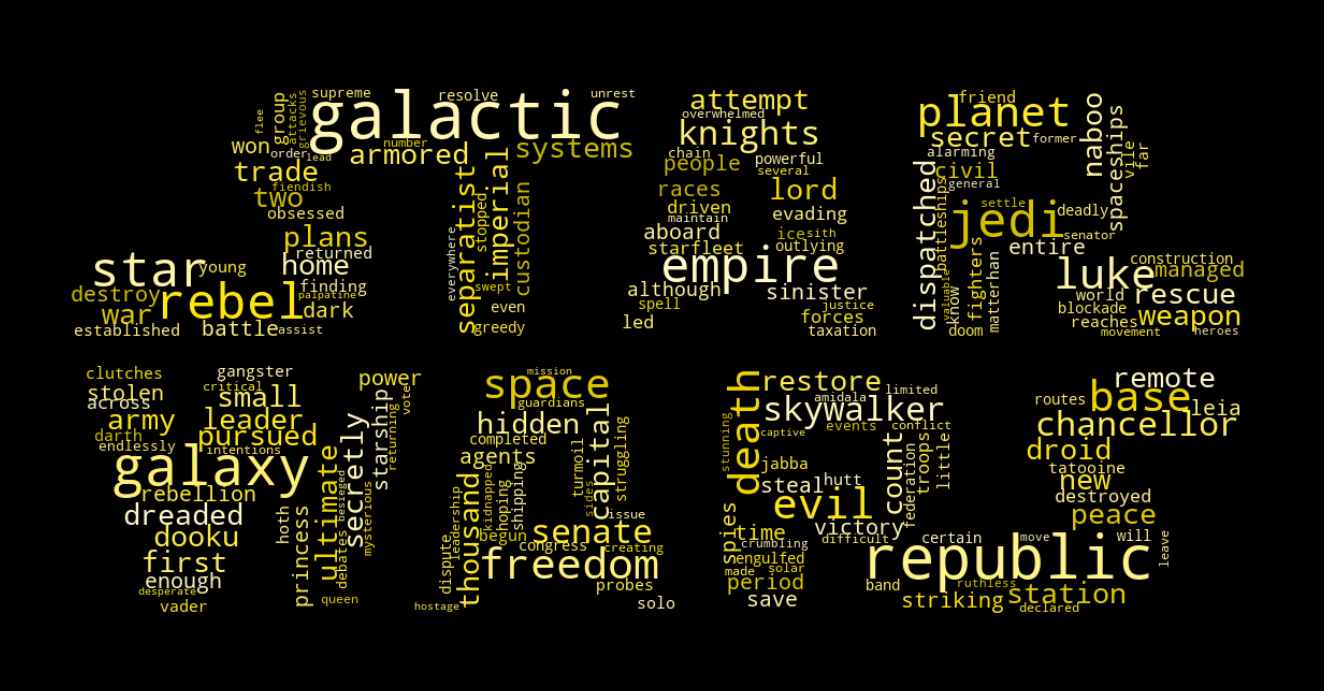
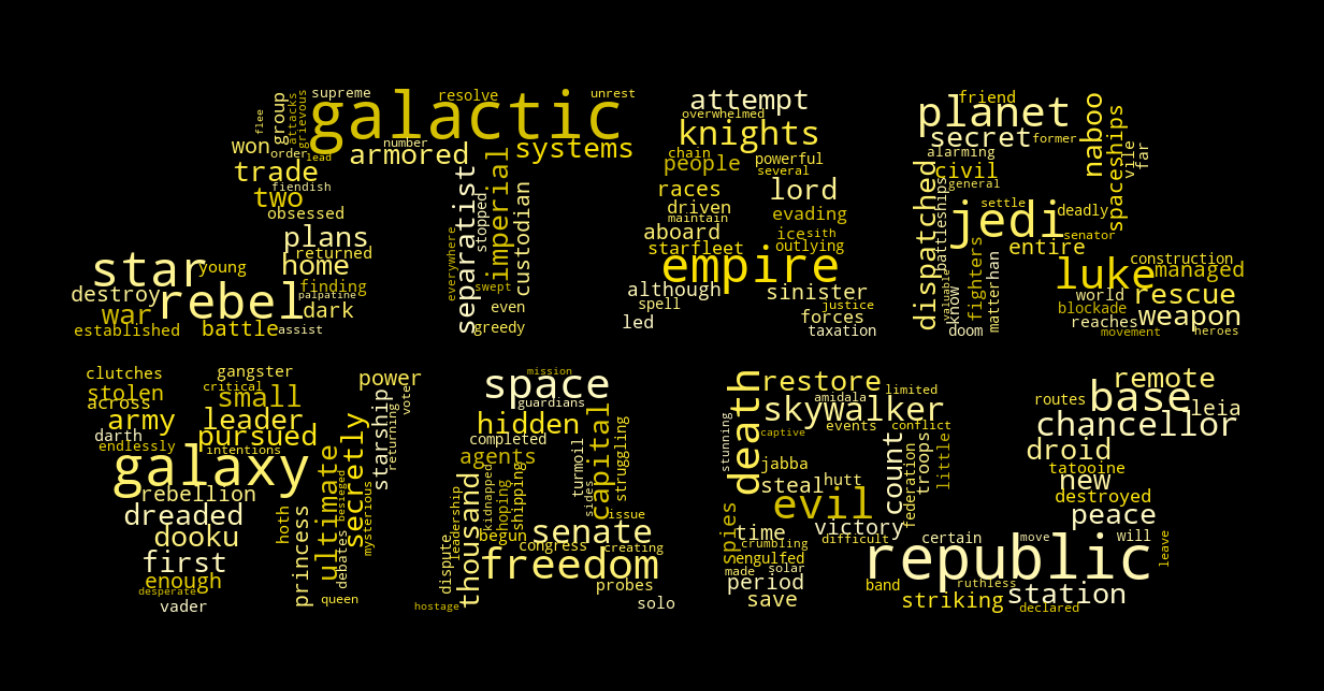
re-rendering

diff --git a/docs/index.html b/docs/index.html
@@ -130,9 +130,9 @@ ul.task-list li input[type="checkbox"] {
 <div id="species-representation-count-2" class="cell-output cell-output-display">
 
 <div>            <script src="https://cdnjs.cloudflare.com/ajax/libs/mathjax/2.7.5/MathJax.js?config=TeX-AMS-MML_SVG"></script><script type="text/javascript">if (window.MathJax && window.MathJax.Hub && window.MathJax.Hub.Config) {window.MathJax.Hub.Config({SVG: {font: "STIX-Web"}});}</script>                <script type="text/javascript">window.PlotlyConfig = {MathJaxConfig: 'local'};</script>
-        <script charset="utf-8" src="https://cdn.plot.ly/plotly-3.0.1.min.js"></script>                <div id="8d559aae-e13a-4921-8a7c-63c9bd1dba8d" class="plotly-graph-div" style="height:525px; width:100%;"></div>            <script type="text/javascript">                window.PLOTLYENV=window.PLOTLYENV || {};                                if (document.getElementById("8d559aae-e13a-4921-8a7c-63c9bd1dba8d")) {                    Plotly.newPlot(                        "8d559aae-e13a-4921-8a7c-63c9bd1dba8d",                        [{"customdata":[["Jar Jar Binks\u003cbr\u003eKit Fisto\u003cbr\u003eMas Amedda"],["Jar Jar Binks\u003cbr\u003eKit Fisto\u003cbr\u003eMas Amedda"],["Kit Fisto"],[""],[""],[""]],"fillpattern":{"shape":""},"hovertemplate":"\u003cb\u003eClassification: %{fullData.name}\u003c\u002fb\u003e\u003cbr\u003e# Characters: %{y}\u003cbr\u003e%{customdata[0]}\u003cextra\u003e\u003c\u002fextra\u003e","legendgroup":"amphibian","line":{"color":"rgb(237, 229, 207)"},"marker":{"symbol":"circle"},"mode":"lines","name":"amphibian","orientation":"v","showlegend":true,"stackgroup":"1","x":["I","II","III","IV","V","VI"],"xaxis":"x","y":{"dtype":"f8","bdata":"AAAAAAAACEAAAAAAAAAIQAAAAAAAAPA\u002fAAAAAAAAAAAAAAAAAAAAAAAAAAAAAAAA"},"yaxis":"y","type":"scatter"},{"customdata":[["C-3PO\u003cbr\u003eR2-D2"],["C-3PO\u003cbr\u003eR2-D2\u003cbr\u003eR4-P17"],["C-3PO\u003cbr\u003eR2-D2\u003cbr\u003eR4-P17"],["C-3PO\u003cbr\u003eR2-D2"],["C-3PO\u003cbr\u003eR2-D2"],["C-3PO\u003cbr\u003eR2-D2"]],"fillpattern":{"shape":""},"hovertemplate":"\u003cb\u003eClassification: %{fullData.name}\u003c\u002fb\u003e\u003cbr\u003e# Characters: %{y}\u003cbr\u003e%{customdata[0]}\u003cextra\u003e\u003c\u002fextra\u003e","legendgroup":"artificial","line":{"color":"rgb(224, 194, 162)"},"marker":{"symbol":"circle"},"mode":"lines","name":"artificial","orientation":"v","showlegend":true,"stackgroup":"1","x":["I","II","III","IV","V","VI"],"xaxis":"x","y":{"dtype":"f8","bdata":"AAAAAAAAAEAAAAAAAAAIQAAAAAAAAAhAAAAAAAAAAEAAAAAAAAAAQAAAAAAAAABA"},"yaxis":"y","type":"scatter"},{"customdata":[["Jabba Desilijic Tiure"],[""],[""],["Jabba Desilijic Tiure"],[""],["Jabba Desilijic Tiure"]],"fillpattern":{"shape":""},"hovertemplate":"\u003cb\u003eClassification: %{fullData.name}\u003c\u002fb\u003e\u003cbr\u003e# Characters: %{y}\u003cbr\u003e%{customdata[0]}\u003cextra\u003e\u003c\u002fextra\u003e","legendgroup":"gastropod","line":{"color":"rgb(211, 156, 131)"},"marker":{"symbol":"circle"},"mode":"lines","name":"gastropod","orientation":"v","showlegend":true,"stackgroup":"1","x":["I","II","III","IV","V","VI"],"xaxis":"x","y":{"dtype":"f8","bdata":"AAAAAAAA8D8AAAAAAAAAAAAAAAAAAAAAAAAAAAAA8D8AAAAAAAAAAAAAAAAAAPA\u002f"},"yaxis":"y","type":"scatter"},{"customdata":[["Adi Gallia\u003cbr\u003eAnakin Skywalker\u003cbr\u003eAyla Secura\u003cbr\u003eEeth Koth\u003cbr\u003eKi-Adi-Mundi\u003cbr\u003eMace Windu\u003cbr\u003eObi-Wan Kenobi\u003cbr\u003ePadm\u00e9 Amidala\u003cbr\u003ePalpatine\u003cbr\u003eShmi Skywalker\u003cbr\u003eWatto\u003cbr\u003eYoda"],["Anakin Skywalker\u003cbr\u003eAyla Secura\u003cbr\u003eBail Prestor Organa\u003cbr\u003eBeru Whitesun lars\u003cbr\u003eBoba Fett\u003cbr\u003eDooku\u003cbr\u003eKi-Adi-Mundi\u003cbr\u003eLuminara Unduli\u003cbr\u003eMace Windu\u003cbr\u003eObi-Wan Kenobi\u003cbr\u003eOwen Lars\u003cbr\u003ePadm\u00e9 Amidala\u003cbr\u003ePalpatine\u003cbr\u003eShaak Ti\u003cbr\u003eShmi Skywalker\u003cbr\u003eWatto\u003cbr\u003eYoda"],["Adi Gallia\u003cbr\u003eAnakin Skywalker\u003cbr\u003eAyla Secura\u003cbr\u003eBail Prestor Organa\u003cbr\u003eBeru Whitesun lars\u003cbr\u003eChewbacca\u003cbr\u003eDarth Vader\u003cbr\u003eDooku\u003cbr\u003eEeth Koth\u003cbr\u003eKi-Adi-Mundi\u003cbr\u003eLeia Organa\u003cbr\u003eLuke Skywalker\u003cbr\u003eLuminara Unduli\u003cbr\u003eMace Windu\u003cbr\u003eObi-Wan Kenobi\u003cbr\u003eOwen Lars\u003cbr\u003ePadm\u00e9 Amidala\u003cbr\u003ePalpatine\u003cbr\u003eRaymus Antilles\u003cbr\u003eShaak Ti\u003cbr\u003eWilhuff Tarkin\u003cbr\u003eYoda"],["Beru Whitesun lars\u003cbr\u003eChewbacca\u003cbr\u003eDarth Vader\u003cbr\u003eHan Solo\u003cbr\u003eLeia Organa\u003cbr\u003eLuke Skywalker\u003cbr\u003eObi-Wan Kenobi\u003cbr\u003eOwen Lars\u003cbr\u003eRaymus Antilles\u003cbr\u003eWedge Antilles\u003cbr\u003eWilhuff Tarkin"],["Boba Fett\u003cbr\u003eChewbacca\u003cbr\u003eDarth Vader\u003cbr\u003eHan Solo\u003cbr\u003eLando Calrissian\u003cbr\u003eLeia Organa\u003cbr\u003eLuke Skywalker\u003cbr\u003eObi-Wan Kenobi\u003cbr\u003ePalpatine\u003cbr\u003eWedge Antilles\u003cbr\u003eYoda"],["Boba Fett\u003cbr\u003eChewbacca\u003cbr\u003eDarth Vader\u003cbr\u003eHan Solo\u003cbr\u003eLando Calrissian\u003cbr\u003eLeia Organa\u003cbr\u003eLuke Skywalker\u003cbr\u003eObi-Wan Kenobi\u003cbr\u003ePalpatine\u003cbr\u003eWedge Antilles\u003cbr\u003eYoda"]],"fillpattern":{"shape":""},"hovertemplate":"\u003cb\u003eClassification: %{fullData.name}\u003c\u002fb\u003e\u003cbr\u003e# Characters: %{y}\u003cbr\u003e%{customdata[0]}\u003cextra\u003e\u003c\u002fextra\u003e","legendgroup":"mammal","line":{"color":"rgb(193, 118, 111)"},"marker":{"symbol":"circle"},"mode":"lines","name":"mammal","orientation":"v","showlegend":true,"stackgroup":"1","x":["I","II","III","IV","V","VI"],"xaxis":"x","y":{"dtype":"f8","bdata":"AAAAAAAAKEAAAAAAAAAxQAAAAAAAADZAAAAAAAAAJkAAAAAAAAAmQAAAAAAAACZA"},"yaxis":"y","type":"scatter"},{"customdata":[["Nute Gunray\u003cbr\u003ePlo Koon\u003cbr\u003eSaesee Tiin"],["Nute Gunray\u003cbr\u003ePlo Koon"],["Nute Gunray\u003cbr\u003ePlo Koon\u003cbr\u003eSaesee Tiin"],[""],[""],[""]],"fillpattern":{"shape":""},"hovertemplate":"\u003cb\u003eClassification: %{fullData.name}\u003c\u002fb\u003e\u003cbr\u003e# Characters: %{y}\u003cbr\u003e%{customdata[0]}\u003cextra\u003e\u003c\u002fextra\u003e","legendgroup":"unknown","line":{"color":"rgb(166, 84, 97)"},"marker":{"symbol":"circle"},"mode":"lines","name":"unknown","orientation":"v","showlegend":true,"stackgroup":"1","x":["I","II","III","IV","V","VI"],"xaxis":"x","y":{"dtype":"f8","bdata":"AAAAAAAACEAAAAAAAAAAQAAAAAAAAAhAAAAAAAAAAAAAAAAAAAAAAAAAAAAAAAAA"},"yaxis":"y","type":"scatter"},{"customdata":[[""],["Poggle the Lesser"],["Poggle the Lesser"],[""],[""],[""]],"fillpattern":{"shape":""},"hovertemplate":"\u003cb\u003eClassification: %{fullData.name}\u003c\u002fb\u003e\u003cbr\u003e# Characters: %{y}\u003cbr\u003e%{customdata[0]}\u003cextra\u003e\u003c\u002fextra\u003e","legendgroup":"insectoid","line":{"color":"rgb(129, 55, 83)"},"marker":{"symbol":"circle"},"mode":"lines","name":"insectoid","orientation":"v","showlegend":true,"stackgroup":"1","x":["I","II","III","IV","V","VI"],"xaxis":"x","y":{"dtype":"f8","bdata":"AAAAAAAAAAAAAAAAAADwPwAAAAAAAPA\u002fAAAAAAAAAAAAAAAAAAAAAAAAAAAAAAAA"},"yaxis":"y","type":"scatter"}],                        {"template":{"data":{"histogram2dcontour":[{"type":"histogram2dcontour","colorbar":{"outlinewidth":0,"ticks":""},"colorscale":[[0.0,"#0d0887"],[0.1111111111111111,"#46039f"],[0.2222222222222222,"#7201a8"],[0.3333333333333333,"#9c179e"],[0.4444444444444444,"#bd3786"],[0.5555555555555556,"#d8576b"],[0.6666666666666666,"#ed7953"],[0.7777777777777778,"#fb9f3a"],[0.8888888888888888,"#fdca26"],[1.0,"#f0f921"]]}],"choropleth":[{"type":"choropleth","colorbar":{"outlinewidth":0,"ticks":""}}],"histogram2d":[{"type":"histogram2d","colorbar":{"outlinewidth":0,"ticks":""},"colorscale":[[0.0,"#0d0887"],[0.1111111111111111,"#46039f"],[0.2222222222222222,"#7201a8"],[0.3333333333333333,"#9c179e"],[0.4444444444444444,"#bd3786"],[0.5555555555555556,"#d8576b"],[0.6666666666666666,"#ed7953"],[0.7777777777777778,"#fb9f3a"],[0.8888888888888888,"#fdca26"],[1.0,"#f0f921"]]}],"heatmap":[{"type":"heatmap","colorbar":{"outlinewidth":0,"ticks":""},"colorscale":[[0.0,"#0d0887"],[0.1111111111111111,"#46039f"],[0.2222222222222222,"#7201a8"],[0.3333333333333333,"#9c179e"],[0.4444444444444444,"#bd3786"],[0.5555555555555556,"#d8576b"],[0.6666666666666666,"#ed7953"],[0.7777777777777778,"#fb9f3a"],[0.8888888888888888,"#fdca26"],[1.0,"#f0f921"]]}],"contourcarpet":[{"type":"contourcarpet","colorbar":{"outlinewidth":0,"ticks":""}}],"contour":[{"type":"contour","colorbar":{"outlinewidth":0,"ticks":""},"colorscale":[[0.0,"#0d0887"],[0.1111111111111111,"#46039f"],[0.2222222222222222,"#7201a8"],[0.3333333333333333,"#9c179e"],[0.4444444444444444,"#bd3786"],[0.5555555555555556,"#d8576b"],[0.6666666666666666,"#ed7953"],[0.7777777777777778,"#fb9f3a"],[0.8888888888888888,"#fdca26"],[1.0,"#f0f921"]]}],"surface":[{"type":"surface","colorbar":{"outlinewidth":0,"ticks":""},"colorscale":[[0.0,"#0d0887"],[0.1111111111111111,"#46039f"],[0.2222222222222222,"#7201a8"],[0.3333333333333333,"#9c179e"],[0.4444444444444444,"#bd3786"],[0.5555555555555556,"#d8576b"],[0.6666666666666666,"#ed7953"],[0.7777777777777778,"#fb9f3a"],[0.8888888888888888,"#fdca26"],[1.0,"#f0f921"]]}],"mesh3d":[{"type":"mesh3d","colorbar":{"outlinewidth":0,"ticks":""}}],"scatter":[{"fillpattern":{"fillmode":"overlay","size":10,"solidity":0.2},"type":"scatter"}],"parcoords":[{"type":"parcoords","line":{"colorbar":{"outlinewidth":0,"ticks":""}}}],"scatterpolargl":[{"type":"scatterpolargl","marker":{"colorbar":{"outlinewidth":0,"ticks":""}}}],"bar":[{"error_x":{"color":"#2a3f5f"},"error_y":{"color":"#2a3f5f"},"marker":{"line":{"color":"#E5ECF6","width":0.5},"pattern":{"fillmode":"overlay","size":10,"solidity":0.2}},"type":"bar"}],"scattergeo":[{"type":"scattergeo","marker":{"colorbar":{"outlinewidth":0,"ticks":""}}}],"scatterpolar":[{"type":"scatterpolar","marker":{"colorbar":{"outlinewidth":0,"ticks":""}}}],"histogram":[{"marker":{"pattern":{"fillmode":"overlay","size":10,"solidity":0.2}},"type":"histogram"}],"scattergl":[{"type":"scattergl","marker":{"colorbar":{"outlinewidth":0,"ticks":""}}}],"scatter3d":[{"type":"scatter3d","line":{"colorbar":{"outlinewidth":0,"ticks":""}},"marker":{"colorbar":{"outlinewidth":0,"ticks":""}}}],"scattermap":[{"type":"scattermap","marker":{"colorbar":{"outlinewidth":0,"ticks":""}}}],"scattermapbox":[{"type":"scattermapbox","marker":{"colorbar":{"outlinewidth":0,"ticks":""}}}],"scatterternary":[{"type":"scatterternary","marker":{"colorbar":{"outlinewidth":0,"ticks":""}}}],"scattercarpet":[{"type":"scattercarpet","marker":{"colorbar":{"outlinewidth":0,"ticks":""}}}],"carpet":[{"aaxis":{"endlinecolor":"#2a3f5f","gridcolor":"white","linecolor":"white","minorgridcolor":"white","startlinecolor":"#2a3f5f"},"baxis":{"endlinecolor":"#2a3f5f","gridcolor":"white","linecolor":"white","minorgridcolor":"white","startlinecolor":"#2a3f5f"},"type":"carpet"}],"table":[{"cells":{"fill":{"color":"#EBF0F8"},"line":{"color":"white"}},"header":{"fill":{"color":"#C8D4E3"},"line":{"color":"white"}},"type":"table"}],"barpolar":[{"marker":{"line":{"color":"#E5ECF6","width":0.5},"pattern":{"fillmode":"overlay","size":10,"solidity":0.2}},"type":"barpolar"}],"pie":[{"automargin":true,"type":"pie"}]},"layout":{"autotypenumbers":"strict","colorway":["#636efa","#EF553B","#00cc96","#ab63fa","#FFA15A","#19d3f3","#FF6692","#B6E880","#FF97FF","#FECB52"],"font":{"color":"#2a3f5f"},"hovermode":"closest","hoverlabel":{"align":"left"},"paper_bgcolor":"white","plot_bgcolor":"#E5ECF6","polar":{"bgcolor":"#E5ECF6","angularaxis":{"gridcolor":"white","linecolor":"white","ticks":""},"radialaxis":{"gridcolor":"white","linecolor":"white","ticks":""}},"ternary":{"bgcolor":"#E5ECF6","aaxis":{"gridcolor":"white","linecolor":"white","ticks":""},"baxis":{"gridcolor":"white","linecolor":"white","ticks":""},"caxis":{"gridcolor":"white","linecolor":"white","ticks":""}},"coloraxis":{"colorbar":{"outlinewidth":0,"ticks":""}},"colorscale":{"sequential":[[0.0,"#0d0887"],[0.1111111111111111,"#46039f"],[0.2222222222222222,"#7201a8"],[0.3333333333333333,"#9c179e"],[0.4444444444444444,"#bd3786"],[0.5555555555555556,"#d8576b"],[0.6666666666666666,"#ed7953"],[0.7777777777777778,"#fb9f3a"],[0.8888888888888888,"#fdca26"],[1.0,"#f0f921"]],"sequentialminus":[[0.0,"#0d0887"],[0.1111111111111111,"#46039f"],[0.2222222222222222,"#7201a8"],[0.3333333333333333,"#9c179e"],[0.4444444444444444,"#bd3786"],[0.5555555555555556,"#d8576b"],[0.6666666666666666,"#ed7953"],[0.7777777777777778,"#fb9f3a"],[0.8888888888888888,"#fdca26"],[1.0,"#f0f921"]],"diverging":[[0,"#8e0152"],[0.1,"#c51b7d"],[0.2,"#de77ae"],[0.3,"#f1b6da"],[0.4,"#fde0ef"],[0.5,"#f7f7f7"],[0.6,"#e6f5d0"],[0.7,"#b8e186"],[0.8,"#7fbc41"],[0.9,"#4d9221"],[1,"#276419"]]},"xaxis":{"gridcolor":"white","linecolor":"white","ticks":"","title":{"standoff":15},"zerolinecolor":"white","automargin":true,"zerolinewidth":2},"yaxis":{"gridcolor":"white","linecolor":"white","ticks":"","title":{"standoff":15},"zerolinecolor":"white","automargin":true,"zerolinewidth":2},"scene":{"xaxis":{"backgroundcolor":"#E5ECF6","gridcolor":"white","linecolor":"white","showbackground":true,"ticks":"","zerolinecolor":"white","gridwidth":2},"yaxis":{"backgroundcolor":"#E5ECF6","gridcolor":"white","linecolor":"white","showbackground":true,"ticks":"","zerolinecolor":"white","gridwidth":2},"zaxis":{"backgroundcolor":"#E5ECF6","gridcolor":"white","linecolor":"white","showbackground":true,"ticks":"","zerolinecolor":"white","gridwidth":2}},"shapedefaults":{"line":{"color":"#2a3f5f"}},"annotationdefaults":{"arrowcolor":"#2a3f5f","arrowhead":0,"arrowwidth":1},"geo":{"bgcolor":"white","landcolor":"#E5ECF6","subunitcolor":"white","showland":true,"showlakes":true,"lakecolor":"white"},"title":{"x":0.05},"mapbox":{"style":"light"}}},"xaxis":{"anchor":"y","domain":[0.0,1.0],"title":{"text":"Episode"},"showgrid":false,"zeroline":false},"yaxis":{"anchor":"x","domain":[0.0,1.0],"title":{"text":"# Unique Characters"},"showgrid":false,"zeroline":false},"legend":{"title":{"text":"Classification"},"tracegroupgap":0},"margin":{"t":60},"shapes":[{"fillcolor":"white","line":{"width":0},"opacity":0.2,"type":"rect","x0":0,"x1":2.5,"xref":"x","y0":0,"y1":1,"yref":"y domain"}],"annotations":[{"font":{"color":"white","size":16},"showarrow":false,"text":"Prequel Trilogy","x":0.6,"y":30},{"font":{"color":"white","size":16},"showarrow":false,"text":"Original Trilogy","x":4.4,"y":30}],"font":{"color":"white"},"paper_bgcolor":"black","plot_bgcolor":"black"},                        {"responsive": true}                    ).then(function(){
+        <script charset="utf-8" src="https://cdn.plot.ly/plotly-3.0.1.min.js"></script>                <div id="63b5afef-87e2-4ba6-b77a-9c99aed90577" class="plotly-graph-div" style="height:525px; width:100%;"></div>            <script type="text/javascript">                window.PLOTLYENV=window.PLOTLYENV || {};                                if (document.getElementById("63b5afef-87e2-4ba6-b77a-9c99aed90577")) {                    Plotly.newPlot(                        "63b5afef-87e2-4ba6-b77a-9c99aed90577",                        [{"customdata":[["Jar Jar Binks\u003cbr\u003eKit Fisto\u003cbr\u003eMas Amedda"],["Jar Jar Binks\u003cbr\u003eKit Fisto\u003cbr\u003eMas Amedda"],["Kit Fisto"],[""],[""],[""]],"fillpattern":{"shape":""},"hovertemplate":"\u003cb\u003eClassification: %{fullData.name}\u003c\u002fb\u003e\u003cbr\u003e# Characters: %{y}\u003cbr\u003e%{customdata[0]}\u003cextra\u003e\u003c\u002fextra\u003e","legendgroup":"amphibian","line":{"color":"rgb(237, 229, 207)"},"marker":{"symbol":"circle"},"mode":"lines","name":"amphibian","orientation":"v","showlegend":true,"stackgroup":"1","x":["I","II","III","IV","V","VI"],"xaxis":"x","y":{"dtype":"f8","bdata":"AAAAAAAACEAAAAAAAAAIQAAAAAAAAPA\u002fAAAAAAAAAAAAAAAAAAAAAAAAAAAAAAAA"},"yaxis":"y","type":"scatter"},{"customdata":[["C-3PO\u003cbr\u003eR2-D2"],["C-3PO\u003cbr\u003eR2-D2\u003cbr\u003eR4-P17"],["C-3PO\u003cbr\u003eR2-D2\u003cbr\u003eR4-P17"],["C-3PO\u003cbr\u003eR2-D2"],["C-3PO\u003cbr\u003eR2-D2"],["C-3PO\u003cbr\u003eR2-D2"]],"fillpattern":{"shape":""},"hovertemplate":"\u003cb\u003eClassification: %{fullData.name}\u003c\u002fb\u003e\u003cbr\u003e# Characters: %{y}\u003cbr\u003e%{customdata[0]}\u003cextra\u003e\u003c\u002fextra\u003e","legendgroup":"artificial","line":{"color":"rgb(224, 194, 162)"},"marker":{"symbol":"circle"},"mode":"lines","name":"artificial","orientation":"v","showlegend":true,"stackgroup":"1","x":["I","II","III","IV","V","VI"],"xaxis":"x","y":{"dtype":"f8","bdata":"AAAAAAAAAEAAAAAAAAAIQAAAAAAAAAhAAAAAAAAAAEAAAAAAAAAAQAAAAAAAAABA"},"yaxis":"y","type":"scatter"},{"customdata":[["Jabba Desilijic Tiure"],[""],[""],["Jabba Desilijic Tiure"],[""],["Jabba Desilijic Tiure"]],"fillpattern":{"shape":""},"hovertemplate":"\u003cb\u003eClassification: %{fullData.name}\u003c\u002fb\u003e\u003cbr\u003e# Characters: %{y}\u003cbr\u003e%{customdata[0]}\u003cextra\u003e\u003c\u002fextra\u003e","legendgroup":"gastropod","line":{"color":"rgb(211, 156, 131)"},"marker":{"symbol":"circle"},"mode":"lines","name":"gastropod","orientation":"v","showlegend":true,"stackgroup":"1","x":["I","II","III","IV","V","VI"],"xaxis":"x","y":{"dtype":"f8","bdata":"AAAAAAAA8D8AAAAAAAAAAAAAAAAAAAAAAAAAAAAA8D8AAAAAAAAAAAAAAAAAAPA\u002f"},"yaxis":"y","type":"scatter"},{"customdata":[["Adi Gallia\u003cbr\u003eAnakin Skywalker\u003cbr\u003eAyla Secura\u003cbr\u003eEeth Koth\u003cbr\u003eKi-Adi-Mundi\u003cbr\u003eMace Windu\u003cbr\u003eObi-Wan Kenobi\u003cbr\u003ePadm\u00e9 Amidala\u003cbr\u003ePalpatine\u003cbr\u003eShmi Skywalker\u003cbr\u003eWatto\u003cbr\u003eYoda"],["Anakin Skywalker\u003cbr\u003eAyla Secura\u003cbr\u003eBail Prestor Organa\u003cbr\u003eBeru Whitesun lars\u003cbr\u003eBoba Fett\u003cbr\u003eDooku\u003cbr\u003eKi-Adi-Mundi\u003cbr\u003eLuminara Unduli\u003cbr\u003eMace Windu\u003cbr\u003eObi-Wan Kenobi\u003cbr\u003eOwen Lars\u003cbr\u003ePadm\u00e9 Amidala\u003cbr\u003ePalpatine\u003cbr\u003eShaak Ti\u003cbr\u003eShmi Skywalker\u003cbr\u003eWatto\u003cbr\u003eYoda"],["Adi Gallia\u003cbr\u003eAnakin Skywalker\u003cbr\u003eAyla Secura\u003cbr\u003eBail Prestor Organa\u003cbr\u003eBeru Whitesun lars\u003cbr\u003eChewbacca\u003cbr\u003eDarth Vader\u003cbr\u003eDooku\u003cbr\u003eEeth Koth\u003cbr\u003eKi-Adi-Mundi\u003cbr\u003eLeia Organa\u003cbr\u003eLuke Skywalker\u003cbr\u003eLuminara Unduli\u003cbr\u003eMace Windu\u003cbr\u003eObi-Wan Kenobi\u003cbr\u003eOwen Lars\u003cbr\u003ePadm\u00e9 Amidala\u003cbr\u003ePalpatine\u003cbr\u003eRaymus Antilles\u003cbr\u003eShaak Ti\u003cbr\u003eWilhuff Tarkin\u003cbr\u003eYoda"],["Beru Whitesun lars\u003cbr\u003eChewbacca\u003cbr\u003eDarth Vader\u003cbr\u003eHan Solo\u003cbr\u003eLeia Organa\u003cbr\u003eLuke Skywalker\u003cbr\u003eObi-Wan Kenobi\u003cbr\u003eOwen Lars\u003cbr\u003eRaymus Antilles\u003cbr\u003eWedge Antilles\u003cbr\u003eWilhuff Tarkin"],["Boba Fett\u003cbr\u003eChewbacca\u003cbr\u003eDarth Vader\u003cbr\u003eHan Solo\u003cbr\u003eLando Calrissian\u003cbr\u003eLeia Organa\u003cbr\u003eLuke Skywalker\u003cbr\u003eObi-Wan Kenobi\u003cbr\u003ePalpatine\u003cbr\u003eWedge Antilles\u003cbr\u003eYoda"],["Boba Fett\u003cbr\u003eChewbacca\u003cbr\u003eDarth Vader\u003cbr\u003eHan Solo\u003cbr\u003eLando Calrissian\u003cbr\u003eLeia Organa\u003cbr\u003eLuke Skywalker\u003cbr\u003eObi-Wan Kenobi\u003cbr\u003ePalpatine\u003cbr\u003eWedge Antilles\u003cbr\u003eYoda"]],"fillpattern":{"shape":""},"hovertemplate":"\u003cb\u003eClassification: %{fullData.name}\u003c\u002fb\u003e\u003cbr\u003e# Characters: %{y}\u003cbr\u003e%{customdata[0]}\u003cextra\u003e\u003c\u002fextra\u003e","legendgroup":"mammal","line":{"color":"rgb(193, 118, 111)"},"marker":{"symbol":"circle"},"mode":"lines","name":"mammal","orientation":"v","showlegend":true,"stackgroup":"1","x":["I","II","III","IV","V","VI"],"xaxis":"x","y":{"dtype":"f8","bdata":"AAAAAAAAKEAAAAAAAAAxQAAAAAAAADZAAAAAAAAAJkAAAAAAAAAmQAAAAAAAACZA"},"yaxis":"y","type":"scatter"},{"customdata":[["Nute Gunray\u003cbr\u003ePlo Koon\u003cbr\u003eSaesee Tiin"],["Nute Gunray\u003cbr\u003ePlo Koon"],["Nute Gunray\u003cbr\u003ePlo Koon\u003cbr\u003eSaesee Tiin"],[""],[""],[""]],"fillpattern":{"shape":""},"hovertemplate":"\u003cb\u003eClassification: %{fullData.name}\u003c\u002fb\u003e\u003cbr\u003e# Characters: %{y}\u003cbr\u003e%{customdata[0]}\u003cextra\u003e\u003c\u002fextra\u003e","legendgroup":"unknown","line":{"color":"rgb(166, 84, 97)"},"marker":{"symbol":"circle"},"mode":"lines","name":"unknown","orientation":"v","showlegend":true,"stackgroup":"1","x":["I","II","III","IV","V","VI"],"xaxis":"x","y":{"dtype":"f8","bdata":"AAAAAAAACEAAAAAAAAAAQAAAAAAAAAhAAAAAAAAAAAAAAAAAAAAAAAAAAAAAAAAA"},"yaxis":"y","type":"scatter"},{"customdata":[[""],["Poggle the Lesser"],["Poggle the Lesser"],[""],[""],[""]],"fillpattern":{"shape":""},"hovertemplate":"\u003cb\u003eClassification: %{fullData.name}\u003c\u002fb\u003e\u003cbr\u003e# Characters: %{y}\u003cbr\u003e%{customdata[0]}\u003cextra\u003e\u003c\u002fextra\u003e","legendgroup":"insectoid","line":{"color":"rgb(129, 55, 83)"},"marker":{"symbol":"circle"},"mode":"lines","name":"insectoid","orientation":"v","showlegend":true,"stackgroup":"1","x":["I","II","III","IV","V","VI"],"xaxis":"x","y":{"dtype":"f8","bdata":"AAAAAAAAAAAAAAAAAADwPwAAAAAAAPA\u002fAAAAAAAAAAAAAAAAAAAAAAAAAAAAAAAA"},"yaxis":"y","type":"scatter"}],                        {"template":{"data":{"histogram2dcontour":[{"type":"histogram2dcontour","colorbar":{"outlinewidth":0,"ticks":""},"colorscale":[[0.0,"#0d0887"],[0.1111111111111111,"#46039f"],[0.2222222222222222,"#7201a8"],[0.3333333333333333,"#9c179e"],[0.4444444444444444,"#bd3786"],[0.5555555555555556,"#d8576b"],[0.6666666666666666,"#ed7953"],[0.7777777777777778,"#fb9f3a"],[0.8888888888888888,"#fdca26"],[1.0,"#f0f921"]]}],"choropleth":[{"type":"choropleth","colorbar":{"outlinewidth":0,"ticks":""}}],"histogram2d":[{"type":"histogram2d","colorbar":{"outlinewidth":0,"ticks":""},"colorscale":[[0.0,"#0d0887"],[0.1111111111111111,"#46039f"],[0.2222222222222222,"#7201a8"],[0.3333333333333333,"#9c179e"],[0.4444444444444444,"#bd3786"],[0.5555555555555556,"#d8576b"],[0.6666666666666666,"#ed7953"],[0.7777777777777778,"#fb9f3a"],[0.8888888888888888,"#fdca26"],[1.0,"#f0f921"]]}],"heatmap":[{"type":"heatmap","colorbar":{"outlinewidth":0,"ticks":""},"colorscale":[[0.0,"#0d0887"],[0.1111111111111111,"#46039f"],[0.2222222222222222,"#7201a8"],[0.3333333333333333,"#9c179e"],[0.4444444444444444,"#bd3786"],[0.5555555555555556,"#d8576b"],[0.6666666666666666,"#ed7953"],[0.7777777777777778,"#fb9f3a"],[0.8888888888888888,"#fdca26"],[1.0,"#f0f921"]]}],"contourcarpet":[{"type":"contourcarpet","colorbar":{"outlinewidth":0,"ticks":""}}],"contour":[{"type":"contour","colorbar":{"outlinewidth":0,"ticks":""},"colorscale":[[0.0,"#0d0887"],[0.1111111111111111,"#46039f"],[0.2222222222222222,"#7201a8"],[0.3333333333333333,"#9c179e"],[0.4444444444444444,"#bd3786"],[0.5555555555555556,"#d8576b"],[0.6666666666666666,"#ed7953"],[0.7777777777777778,"#fb9f3a"],[0.8888888888888888,"#fdca26"],[1.0,"#f0f921"]]}],"surface":[{"type":"surface","colorbar":{"outlinewidth":0,"ticks":""},"colorscale":[[0.0,"#0d0887"],[0.1111111111111111,"#46039f"],[0.2222222222222222,"#7201a8"],[0.3333333333333333,"#9c179e"],[0.4444444444444444,"#bd3786"],[0.5555555555555556,"#d8576b"],[0.6666666666666666,"#ed7953"],[0.7777777777777778,"#fb9f3a"],[0.8888888888888888,"#fdca26"],[1.0,"#f0f921"]]}],"mesh3d":[{"type":"mesh3d","colorbar":{"outlinewidth":0,"ticks":""}}],"scatter":[{"fillpattern":{"fillmode":"overlay","size":10,"solidity":0.2},"type":"scatter"}],"parcoords":[{"type":"parcoords","line":{"colorbar":{"outlinewidth":0,"ticks":""}}}],"scatterpolargl":[{"type":"scatterpolargl","marker":{"colorbar":{"outlinewidth":0,"ticks":""}}}],"bar":[{"error_x":{"color":"#2a3f5f"},"error_y":{"color":"#2a3f5f"},"marker":{"line":{"color":"#E5ECF6","width":0.5},"pattern":{"fillmode":"overlay","size":10,"solidity":0.2}},"type":"bar"}],"scattergeo":[{"type":"scattergeo","marker":{"colorbar":{"outlinewidth":0,"ticks":""}}}],"scatterpolar":[{"type":"scatterpolar","marker":{"colorbar":{"outlinewidth":0,"ticks":""}}}],"histogram":[{"marker":{"pattern":{"fillmode":"overlay","size":10,"solidity":0.2}},"type":"histogram"}],"scattergl":[{"type":"scattergl","marker":{"colorbar":{"outlinewidth":0,"ticks":""}}}],"scatter3d":[{"type":"scatter3d","line":{"colorbar":{"outlinewidth":0,"ticks":""}},"marker":{"colorbar":{"outlinewidth":0,"ticks":""}}}],"scattermap":[{"type":"scattermap","marker":{"colorbar":{"outlinewidth":0,"ticks":""}}}],"scattermapbox":[{"type":"scattermapbox","marker":{"colorbar":{"outlinewidth":0,"ticks":""}}}],"scatterternary":[{"type":"scatterternary","marker":{"colorbar":{"outlinewidth":0,"ticks":""}}}],"scattercarpet":[{"type":"scattercarpet","marker":{"colorbar":{"outlinewidth":0,"ticks":""}}}],"carpet":[{"aaxis":{"endlinecolor":"#2a3f5f","gridcolor":"white","linecolor":"white","minorgridcolor":"white","startlinecolor":"#2a3f5f"},"baxis":{"endlinecolor":"#2a3f5f","gridcolor":"white","linecolor":"white","minorgridcolor":"white","startlinecolor":"#2a3f5f"},"type":"carpet"}],"table":[{"cells":{"fill":{"color":"#EBF0F8"},"line":{"color":"white"}},"header":{"fill":{"color":"#C8D4E3"},"line":{"color":"white"}},"type":"table"}],"barpolar":[{"marker":{"line":{"color":"#E5ECF6","width":0.5},"pattern":{"fillmode":"overlay","size":10,"solidity":0.2}},"type":"barpolar"}],"pie":[{"automargin":true,"type":"pie"}]},"layout":{"autotypenumbers":"strict","colorway":["#636efa","#EF553B","#00cc96","#ab63fa","#FFA15A","#19d3f3","#FF6692","#B6E880","#FF97FF","#FECB52"],"font":{"color":"#2a3f5f"},"hovermode":"closest","hoverlabel":{"align":"left"},"paper_bgcolor":"white","plot_bgcolor":"#E5ECF6","polar":{"bgcolor":"#E5ECF6","angularaxis":{"gridcolor":"white","linecolor":"white","ticks":""},"radialaxis":{"gridcolor":"white","linecolor":"white","ticks":""}},"ternary":{"bgcolor":"#E5ECF6","aaxis":{"gridcolor":"white","linecolor":"white","ticks":""},"baxis":{"gridcolor":"white","linecolor":"white","ticks":""},"caxis":{"gridcolor":"white","linecolor":"white","ticks":""}},"coloraxis":{"colorbar":{"outlinewidth":0,"ticks":""}},"colorscale":{"sequential":[[0.0,"#0d0887"],[0.1111111111111111,"#46039f"],[0.2222222222222222,"#7201a8"],[0.3333333333333333,"#9c179e"],[0.4444444444444444,"#bd3786"],[0.5555555555555556,"#d8576b"],[0.6666666666666666,"#ed7953"],[0.7777777777777778,"#fb9f3a"],[0.8888888888888888,"#fdca26"],[1.0,"#f0f921"]],"sequentialminus":[[0.0,"#0d0887"],[0.1111111111111111,"#46039f"],[0.2222222222222222,"#7201a8"],[0.3333333333333333,"#9c179e"],[0.4444444444444444,"#bd3786"],[0.5555555555555556,"#d8576b"],[0.6666666666666666,"#ed7953"],[0.7777777777777778,"#fb9f3a"],[0.8888888888888888,"#fdca26"],[1.0,"#f0f921"]],"diverging":[[0,"#8e0152"],[0.1,"#c51b7d"],[0.2,"#de77ae"],[0.3,"#f1b6da"],[0.4,"#fde0ef"],[0.5,"#f7f7f7"],[0.6,"#e6f5d0"],[0.7,"#b8e186"],[0.8,"#7fbc41"],[0.9,"#4d9221"],[1,"#276419"]]},"xaxis":{"gridcolor":"white","linecolor":"white","ticks":"","title":{"standoff":15},"zerolinecolor":"white","automargin":true,"zerolinewidth":2},"yaxis":{"gridcolor":"white","linecolor":"white","ticks":"","title":{"standoff":15},"zerolinecolor":"white","automargin":true,"zerolinewidth":2},"scene":{"xaxis":{"backgroundcolor":"#E5ECF6","gridcolor":"white","linecolor":"white","showbackground":true,"ticks":"","zerolinecolor":"white","gridwidth":2},"yaxis":{"backgroundcolor":"#E5ECF6","gridcolor":"white","linecolor":"white","showbackground":true,"ticks":"","zerolinecolor":"white","gridwidth":2},"zaxis":{"backgroundcolor":"#E5ECF6","gridcolor":"white","linecolor":"white","showbackground":true,"ticks":"","zerolinecolor":"white","gridwidth":2}},"shapedefaults":{"line":{"color":"#2a3f5f"}},"annotationdefaults":{"arrowcolor":"#2a3f5f","arrowhead":0,"arrowwidth":1},"geo":{"bgcolor":"white","landcolor":"#E5ECF6","subunitcolor":"white","showland":true,"showlakes":true,"lakecolor":"white"},"title":{"x":0.05},"mapbox":{"style":"light"}}},"xaxis":{"anchor":"y","domain":[0.0,1.0],"title":{"text":"Episode"},"showgrid":false,"zeroline":false},"yaxis":{"anchor":"x","domain":[0.0,1.0],"title":{"text":"# Unique Characters"},"showgrid":false,"zeroline":false},"legend":{"title":{"text":"Classification"},"tracegroupgap":0},"margin":{"t":60},"shapes":[{"fillcolor":"white","line":{"width":0},"opacity":0.2,"type":"rect","x0":0,"x1":2.5,"xref":"x","y0":0,"y1":1,"yref":"y domain"}],"annotations":[{"font":{"color":"white","size":16},"showarrow":false,"text":"Prequel Trilogy","x":0.6,"y":30},{"font":{"color":"white","size":16},"showarrow":false,"text":"Original Trilogy","x":4.4,"y":30}],"font":{"color":"white"},"paper_bgcolor":"black","plot_bgcolor":"black"},                        {"responsive": true}                    ).then(function(){
                             
-var gd = document.getElementById('8d559aae-e13a-4921-8a7c-63c9bd1dba8d');
+var gd = document.getElementById('63b5afef-87e2-4ba6-b77a-9c99aed90577');
 var x = new MutationObserver(function (mutations, observer) {{
         var display = window.getComputedStyle(gd).display;
         if (!display || display === 'none') {{
